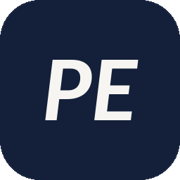
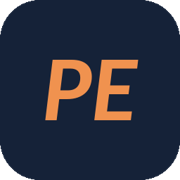
Add files via upload

Changed region(s): [[0.25, 0.3056, 0.7778, 0.6944]]

diff --git a/assets/css/style.css b/assets/css/style.css
@@ -11,19 +11,20 @@
   --font-sans: "Inter", system-ui, -apple-system, "Segoe UI", Roboto, Arial, sans-serif;
   --font-display: "Inter", system-ui, -apple-system, "Segoe UI", Roboto, Arial, sans-serif;
 
-  --bg: #f6f5f1;
+  --bg: #faf8f5;
   --bg-elev: #ffffff;
-  --bg-soft: #eeede7;
-  --ink: #14203a;
+  --bg-soft: #f0ede8;
+  --ink: #152238;           /* navy */
   --ink-2: #33405a;
-  --muted: #5a6377;
-  --line: #dedbd2;
-  --accent: #2e5b87;
-  --accent-soft: #e6edf4;
+  --muted: #5d6678;
+  --line: #e4dfd8;
+  --accent: #b04a17;        /* dark orange, dark enough to read as text */
+  --gold: #d2691e;          /* brighter orange for lines, dots and bars */
+  --accent-soft: #fbede3;
   --accent-ink: #ffffff;
   --success: #2f7d5b;
   --danger: #b5473a;
-  --shadow: 0 1px 2px rgba(20, 32, 58, .05), 0 8px 24px -12px rgba(20, 32, 58, .12);
+  --shadow: 0 1px 2px rgba(21, 34, 56, .05), 0 8px 24px -12px rgba(21, 34, 56, .14);
 
   --radius: 14px;
   --radius-sm: 10px;
@@ -33,16 +34,17 @@
 }
 
 [data-theme="dark"] {
-  --bg: #0f1522;
-  --bg-elev: #161e2e;
-  --bg-soft: #1b2436;
-  --ink: #edf0f5;
+  --bg: #0e1626;
+  --bg-elev: #16213a;
+  --bg-soft: #1b2843;
+  --ink: #eef1f6;
   --ink-2: #c9d0dc;
-  --muted: #98a2b5;
-  --line: #273249;
-  --accent: #8fb4da;
-  --accent-soft: #1d2b40;
-  --accent-ink: #0f1522;
+  --muted: #97a1b4;
+  --line: #26334f;
+  --accent: #f0924f;
+  --gold: #f0924f;
+  --accent-soft: #2b2230;
+  --accent-ink: #0e1626;
   --success: #6cc39b;
   --danger: #ec8b7f;
   --shadow: 0 1px 2px rgba(0, 0, 0, .3), 0 10px 30px -14px rgba(0, 0, 0, .6);
@@ -87,7 +89,7 @@ ul { margin: 0; padding: 0; }
   display: inline-flex; align-items: center; gap: 10px;
   font-size: 12.5px; font-weight: 600; letter-spacing: .14em; text-transform: uppercase; color: var(--accent);
 }
-.eyebrow::before { content: ""; width: 22px; height: 1px; background: currentColor; }
+.eyebrow::before { content: ""; width: 22px; height: 1px; background: var(--gold); }
 .section-head { margin-bottom: 48px; max-width: 720px; }
 .section-head h2 { font-size: clamp(30px, 4vw, 42px); font-weight: 600; margin-top: 14px; }
 .section-head p { color: var(--muted); font-size: 17px; margin-top: 14px; margin-bottom: 0; }
@@ -201,7 +203,7 @@ body.menu-open { overflow: hidden; }
 .stats { display: grid; grid-template-columns: repeat(4, 1fr); margin-top: 72px; border: 1px solid var(--line); border-radius: var(--radius); background: var(--bg-elev); overflow: hidden; }
 .stat { padding: 22px 24px; border-left: 1px solid var(--line); }
 .stat:first-child { border-left: 0; }
-.stat .num { font-size: 32px; font-weight: 600; letter-spacing: -0.03em; font-variant-numeric: tabular-nums; }
+.stat .num { color: var(--ink); font-size: 32px; font-weight: 600; letter-spacing: -0.03em; font-variant-numeric: tabular-nums; }
 .stat .lbl { font-size: 14px; color: var(--muted); margin-top: 2px; line-height: 1.4; }
 
 @media (max-width: 960px) {
@@ -254,9 +256,9 @@ body.menu-open { overflow: hidden; }
 .tl-item:last-child { padding-bottom: 0; }
 .tl-item::before {
   content: ""; position: absolute; left: 0; top: 7px; width: 15px; height: 15px; border-radius: 50%;
-  background: var(--bg); border: 2px solid var(--accent);
+  background: var(--bg); border: 2px solid var(--gold);
 }
-.tl-item.current::before { background: var(--accent); }
+.tl-item.current::before { background: var(--gold); }
 .tl-card { display: grid; grid-template-columns: 220px 1fr; gap: 32px; }
 .tl-meta .dates { font-size: 14px; font-weight: 600; color: var(--ink); font-variant-numeric: tabular-nums; }
 .tl-meta .loc { font-size: 13.5px; color: var(--muted); margin-top: 4px; line-height: 1.45; }
@@ -268,7 +270,7 @@ body.menu-open { overflow: hidden; }
 .tl-cols h4, .tl-impact h4 { font-size: 12px; letter-spacing: .12em; text-transform: uppercase; color: var(--muted); font-weight: 600; margin-bottom: 10px; }
 .ticks { list-style: none; }
 .ticks li { position: relative; padding-left: 18px; font-size: 15px; color: var(--ink-2); margin-bottom: 7px; line-height: 1.5; }
-.ticks li::before { content: ""; position: absolute; left: 0; top: .62em; width: 6px; height: 6px; border-radius: 50%; background: var(--accent); opacity: .7; }
+.ticks li::before { content: ""; position: absolute; left: 0; top: .62em; width: 6px; height: 6px; border-radius: 50%; background: var(--gold); }
 .tl-impact { margin-top: 18px; padding: 14px 18px; background: var(--accent-soft); border-radius: var(--radius-sm); }
 .tl-impact h4 { color: var(--accent); margin-bottom: 4px; }
 .tl-impact p { margin: 0; font-size: 15px; }
@@ -421,7 +423,7 @@ th, td { text-align: left; padding: 12px 14px; border-top: 1px solid var(--line)
 thead th { border-top: 0; font-size: 12px; letter-spacing: .08em; text-transform: uppercase; color: var(--muted); font-weight: 600; background: var(--bg-soft); }
 td.num, th.num { text-align: right; font-variant-numeric: tabular-nums; }
 tr.win td { font-weight: 600; color: var(--accent); }
-.callout { margin-top: 16px; padding: 16px 18px; border-left: 3px solid var(--accent); background: var(--accent-soft); border-radius: 0 var(--radius-sm) var(--radius-sm) 0; font-size: 15.5px; }
+.callout { margin-top: 16px; padding: 16px 18px; border-left: 3px solid var(--gold); background: var(--accent-soft); border-radius: 0 var(--radius-sm) var(--radius-sm) 0; font-size: 15.5px; }
 .callout.muted { border-left-color: var(--muted); background: var(--bg-soft); color: var(--ink-2); }
 .cs-next { border-top: 1px solid var(--line); padding: 48px 0 72px; }
 .cs-next a { text-decoration: none; display: flex; justify-content: space-between; align-items: center; gap: 16px; padding: 24px 28px; border: 1px solid var(--line); border-radius: 18px; background: var(--bg-elev); transition: border-color .2s ease, transform .2s ease; }

diff --git a/projects/crestline-bank.html b/projects/crestline-bank.html
@@ -6,11 +6,11 @@
   <title>Crestline Bank Case Study | Princess Ehima Elema</title>
   <meta name="description" content="Business case and project charter for a 210-branch bank's digital onboarding and lending transformation: stakeholders, options analysis, NPV and SDLC.">
   <meta name="author" content="Princess Ehima Elema">
-  <meta name="theme-color" content="#f6f5f1">
+  <meta name="theme-color" content="#faf8f5">
   <meta property="og:type" content="article">
   <meta property="og:title" content="Crestline Bank Case Study | Princess Ehima Elema">
   <meta property="og:description" content="Business case and project charter for a 210-branch bank's digital onboarding and lending transformation: stakeholders, options analysis, NPV and SDLC.">
-  <meta property="og:image" content="https://princessehimaelema.github.io/assets/images/project-02.jpg">
+  <meta property="og:image" content="https://princessehimaelema.github.io/theanalyst/assets/images/project-02.jpg">
   <meta name="twitter:card" content="summary_large_image">
   <link rel="icon" href="../favicon.ico" sizes="any">
   <link rel="icon" href="../assets/images/favicon.svg" type="image/svg+xml">

diff --git a/projects/bright-bank.html b/projects/bright-bank.html
@@ -6,11 +6,11 @@
   <title>Bright Bank Case Study | Princess Ehima Elema</title>
   <meta name="description" content="Business analysis case study: defining the problem, stakeholder needs and requirements for a bank facing failed and unclear digital transactions.">
   <meta name="author" content="Princess Ehima Elema">
-  <meta name="theme-color" content="#f6f5f1">
+  <meta name="theme-color" content="#faf8f5">
   <meta property="og:type" content="article">
   <meta property="og:title" content="Bright Bank Case Study | Princess Ehima Elema">
   <meta property="og:description" content="Business analysis case study: defining the problem, stakeholder needs and requirements for a bank facing failed and unclear digital transactions.">
-  <meta property="og:image" content="https://princessehimaelema.github.io/assets/images/project-01.jpg">
+  <meta property="og:image" content="https://princessehimaelema.github.io/theanalyst/assets/images/project-01.jpg">
   <meta name="twitter:card" content="summary_large_image">
   <link rel="icon" href="../favicon.ico" sizes="any">
   <link rel="icon" href="../assets/images/favicon.svg" type="image/svg+xml">

diff --git a/assets/js/script.js b/assets/js/script.js
@@ -43,7 +43,7 @@
     root.setAttribute("data-theme", t);
     try { localStorage.setItem("theme", t); } catch (e) {}
     var meta = document.querySelector('meta[name="theme-color"]');
-    if (meta) meta.setAttribute("content", t === "dark" ? "#0f1522" : "#f6f5f1");
+    if (meta) meta.setAttribute("content", t === "dark" ? "#0e1626" : "#faf8f5");
     toggle.forEach(function (b) {
       b.setAttribute("aria-label", t === "dark" ? "Switch to light mode" : "Switch to dark mode");
     });
